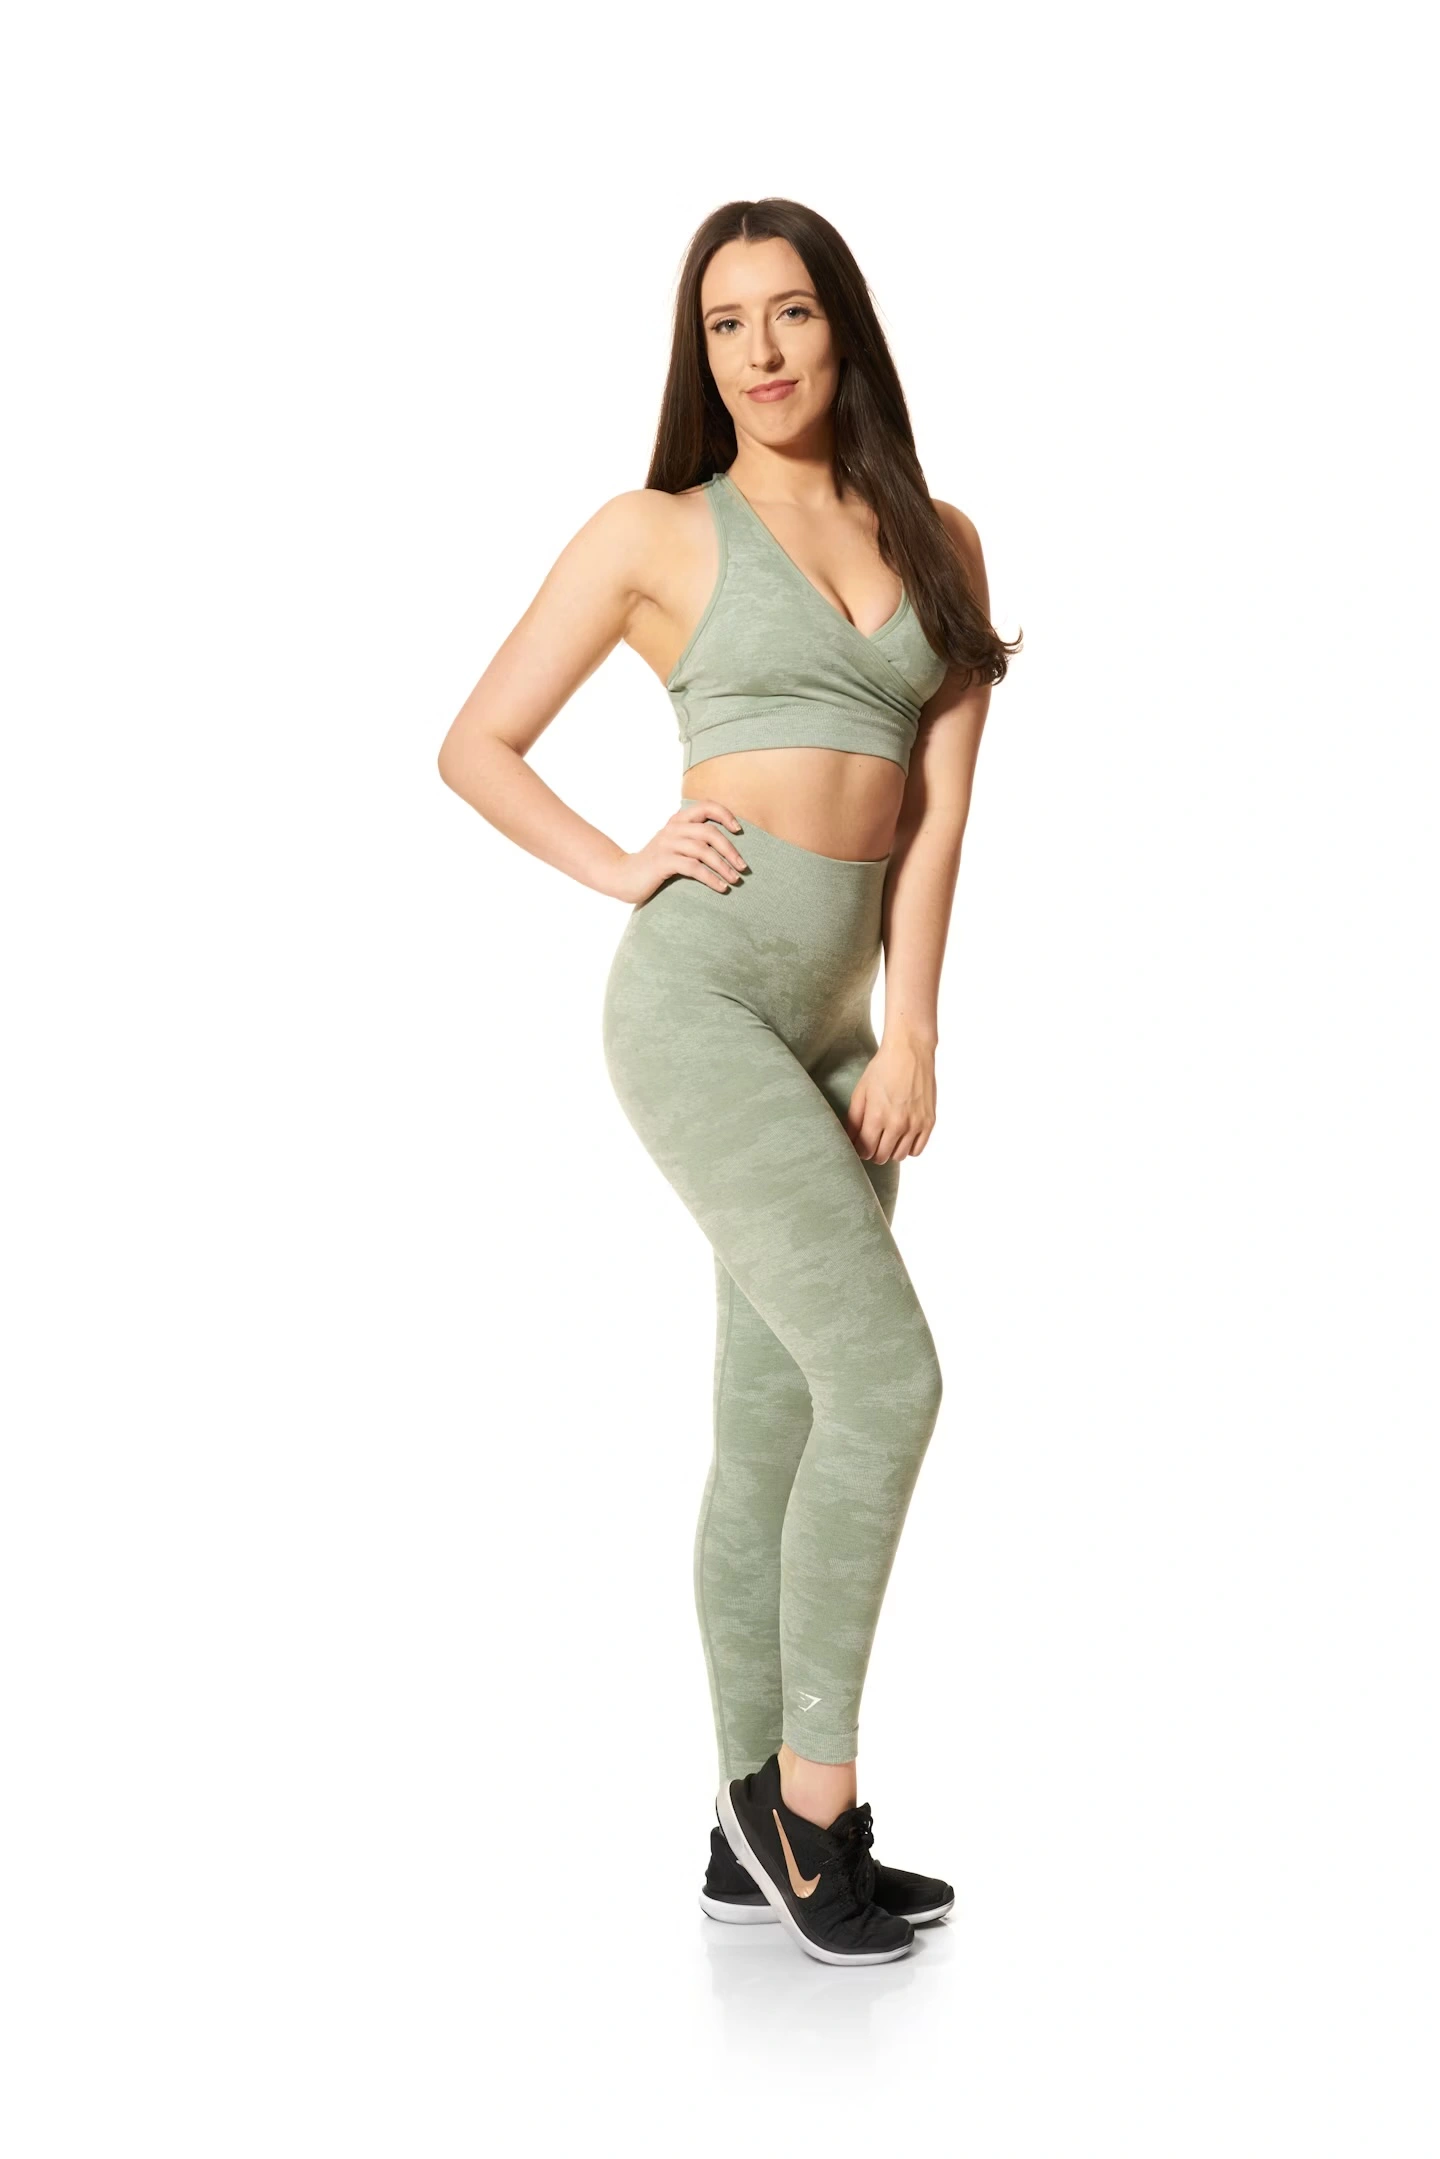
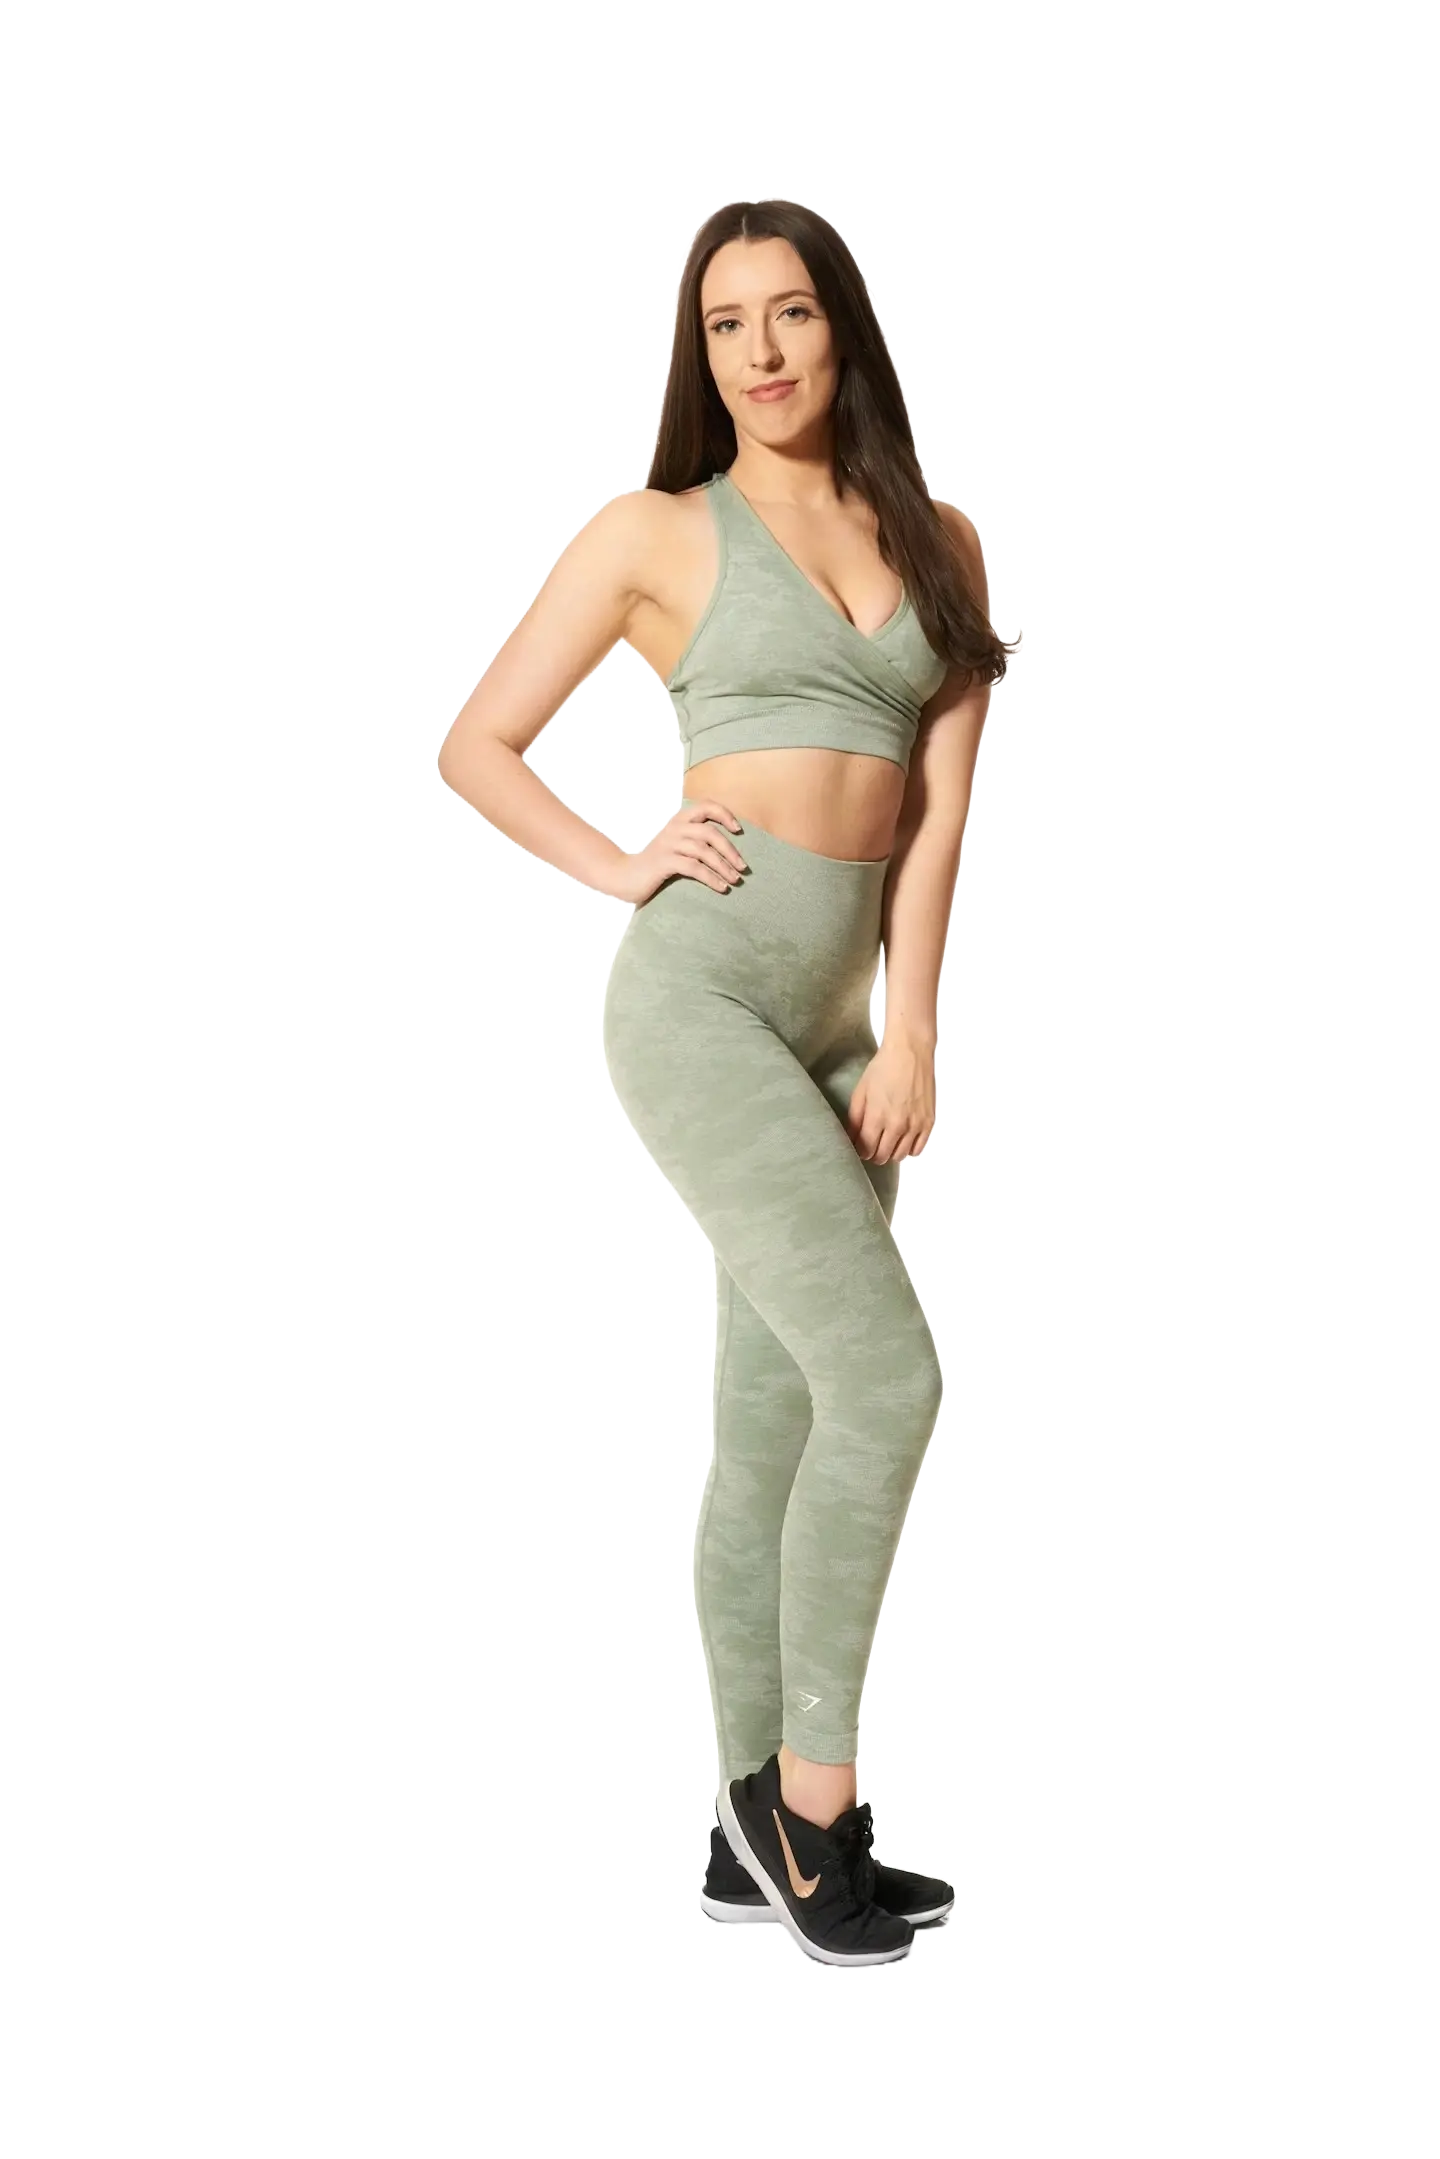
removed image backgrounds and added alt attributes ti images

diff --git a/app/page.js b/app/page.js
@@ -141,9 +141,19 @@ export default function Home() {
               ></div>
             </div>
             {color == "green" ? (
-              <Image src="/img_1.webp" width={480} height={250} />
+              <Image
+                alt="Larissa gym wear model"
+                src="/img_1.webp"
+                width={480}
+                height={250}
+              />
             ) : (
-              <Image src="/img_3.webp" width={480} height={250} />
+              <Image
+                alt="Larissa gym wear model"
+                src="/img_3.webp"
+                width={480}
+                height={250}
+              />
             )}
           </div>
         </div>
@@ -184,16 +194,36 @@ export default function Home() {
           </div>
           <div className="flex">
             <div>
-              <Image src="/img_2.webp" width={250} height={150} />
+              <Image
+                alt="Larissa gym wear model"
+                src="/img_2.webp"
+                width={250}
+                height={150}
+              />
             </div>
             <div>
-              <Image src="/img_4.webp" width={250} height={150} />
+              <Image
+                alt="Larissa gym wear model"
+                src="/img_4.webp"
+                width={250}
+                height={150}
+              />
             </div>
             <div>
-              <Image src="/img_1.webp" width={250} height={150} />
+              <Image
+                alt="Larissa gym wear model"
+                src="/img_1.webp"
+                width={250}
+                height={150}
+              />
             </div>
             <div>
-              <Image src="/img_3.webp" width={250} height={150} />
+              <Image
+                alt="Larissa gym wear model"
+                src="/img_3.webp"
+                width={250}
+                height={150}
+              />
             </div>
           </div>
         </div>

diff --git a/tailwind.config.js b/tailwind.config.js
@@ -21,6 +21,6 @@ module.exports = {
   },
   plugins: [require("daisyui")],
   daisyui: {
-    themes: ["light", "dark", "cupcake", "night"],
+    themes: ["cupcake"],
   },
 };
